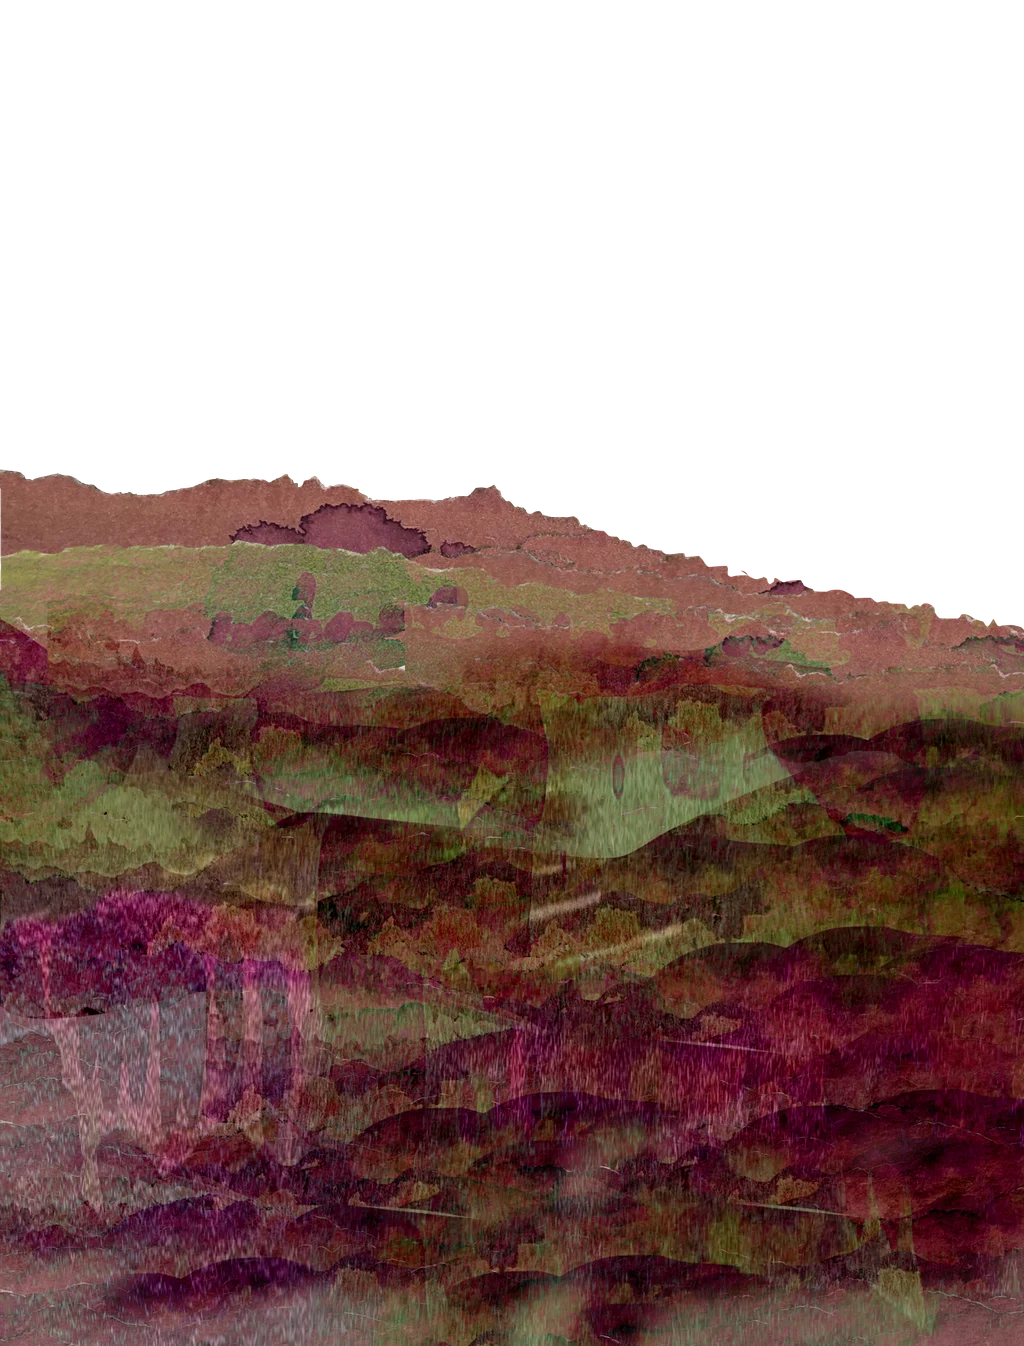
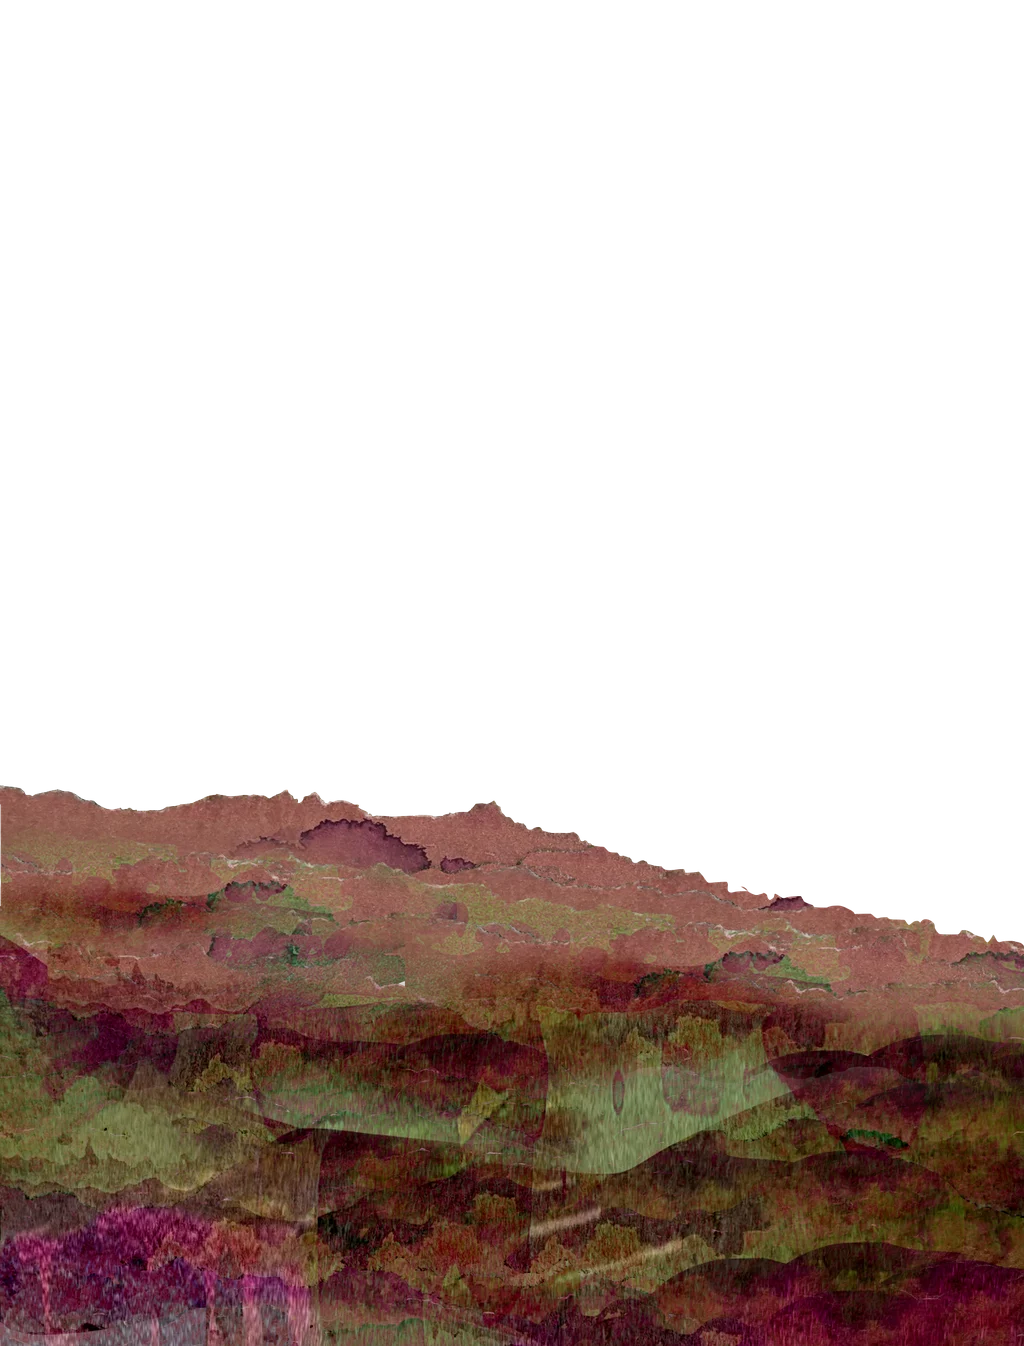
AR : nouveau background

diff --git a/src/ar.js b/src/ar.js
@@ -20,14 +20,15 @@ const AR = {
   target: "/ar/cible.mind",
   aspect: 2048 / 1471, // hauteur / largeur du tableau (photo de référence)
   popDuration: 1.6, // secondes pour que les calques se décollent
+  layersAspect: 2301 / 1750, // hauteur / largeur des calques (même format que le background)
 };
 
 // ordre de Sandra (liste des calques, 1 = le plus proche) : 1 premier plan, 2 collines rouges, 3 champs jaunes, background
 const LAYERS = [
-  { image: "/ar/calque-1-fond.webp", depth: 0 }, // background : ciel, collines vertes, lac
-  { image: "/ar/calque-3-champs.webp", depth: 0.12 }, // calque 3 : champs jaunes
-  { image: "/ar/calque-2-collines.webp?v=2", depth: 0.24 }, // calque 2 : collines rouge-prune
-  { image: "/ar/calque-4-premier-plan.webp", depth: 0.38 }, // calque 1 : premier plan vert et rose
+  { image: "/ar/calque-1-fond.webp?v=4", depth: 0 }, // background : ciel, collines vertes, lac
+  { image: "/ar/calque-3-champs.webp?v=4", depth: 0.12 }, // calque 3 : champs jaunes
+  { image: "/ar/calque-2-collines.webp?v=4", depth: 0.24 }, // calque 2 : collines rouge-prune
+  { image: "/ar/calque-4-premier-plan.webp?v=4", depth: 0.38 }, // calque 1 : premier plan vert et rose
 ];
 
 const start = document.getElementById("ar-start");
@@ -58,7 +59,9 @@ const layerMeshes = LAYERS.map((L, i) => {
   tex.colorSpace = THREE.SRGBColorSpace;
   tex.anisotropy = 8;
   const mat = new THREE.MeshBasicMaterial({ map: tex, transparent: true, opacity: 0, depthWrite: false });
-  const mesh = new THREE.Mesh(new THREE.PlaneGeometry(1, AR.aspect), mat);
+  const mesh = new THREE.Mesh(new THREE.PlaneGeometry(1, AR.layersAspect), mat);
+  // le haut des calques est calé sur le haut du tableau
+  mesh.userData.baseY = AR.aspect / 2 - AR.layersAspect / 2;
   mesh.renderOrder = i; // du fond vers l'avant
   mesh.userData.depth = L.depth;
   root.add(mesh);
@@ -96,6 +99,7 @@ function animate() {
     const k = (dist - z) / dist;
     m.position.z = z;
     m.scale.set(k, k, 1);
+    m.position.y = m.userData.baseY * k;
   });
 
   renderer.render(scene, camera);
